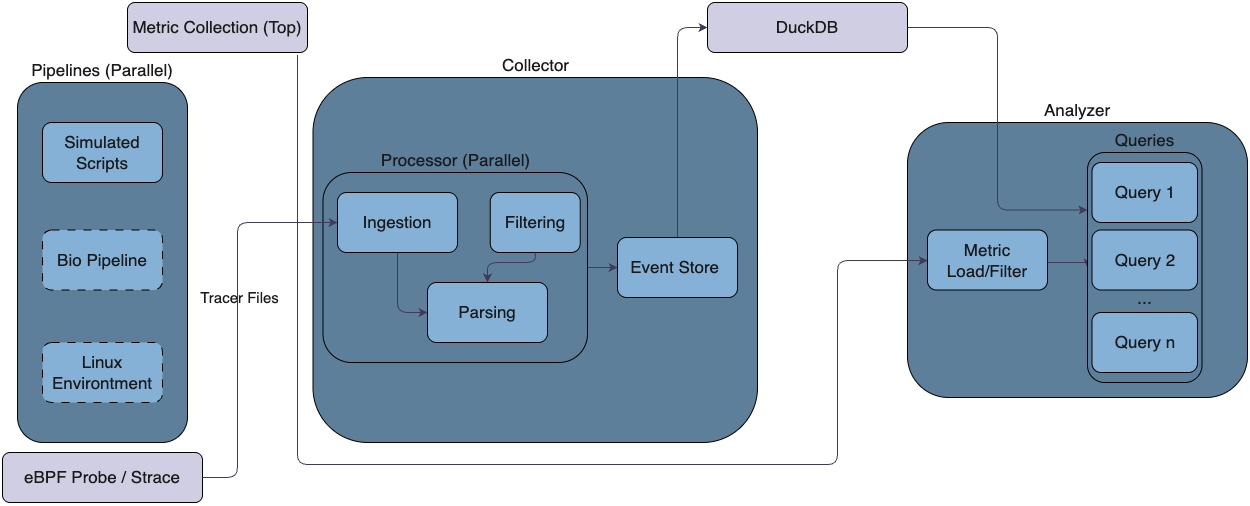
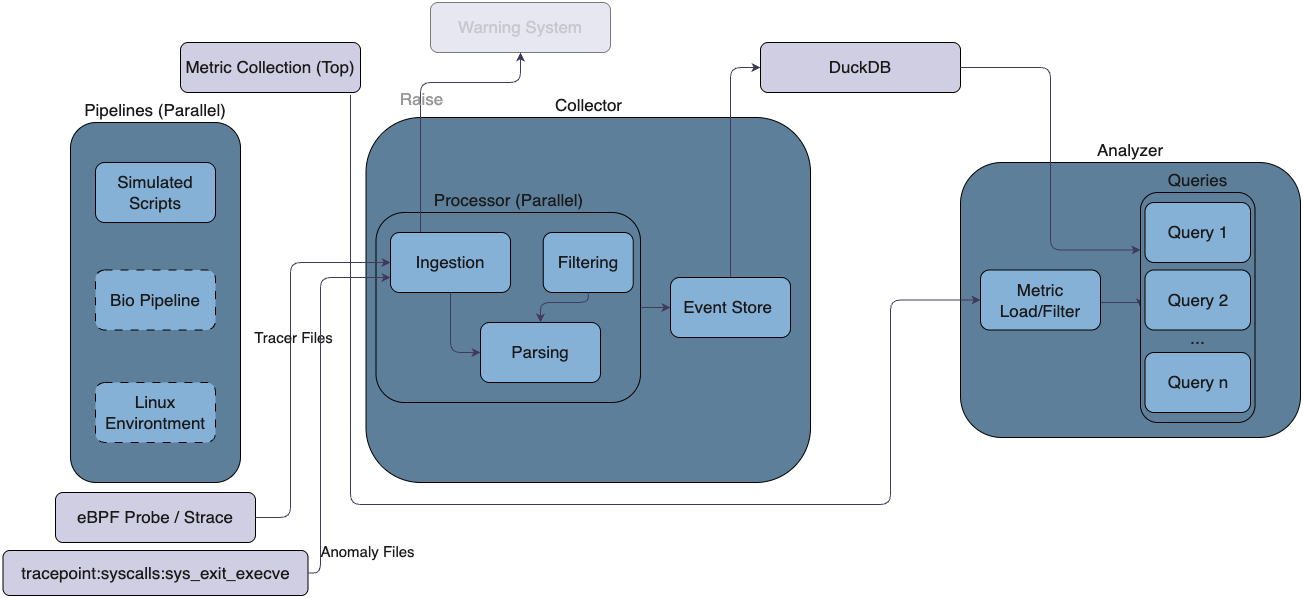
Update readme file to showcase recent eBPF changes

diff --git a/readme.md b/readme.md
@@ -99,6 +99,7 @@ Results are written to CSV for submission clarity.
 ## 5. Design Decisions
 
 ### Collector (`collector.py`)
+- **Anomaly monitoring:** A temporary not tested `sys_exit_execve`-based anomaly monitor was implemented to log failed `execve()` calls. While it effectively detects execution failures, it does not provide end timestamps for successful executions due to how `execve()` replaces the calling process. This behavior is documented in the `execve(2)` man page and confirmed through testing. As a result, we rely on `sched:sched_process_exit` to accurately determine when a binary finishes execution.
 - **Mode-based collection:** Supports both `strace` and `eBPF` modes via CLI flag, enabling future integration with tools like `perf`, `ptrace`, or custom eBPF probes.
 - **Process-level trace separation:** Uses `strace -ff` to generate one trace file per PID, supporting clean duration extraction and better event traceability.
 - **System-wide sampling:** Runs `top` globally at high frequency (every 0.1s) during pipeline execution, capturing per-process CPU and memory metrics.
@@ -171,16 +172,20 @@ pip install -r requirements.txt
 
 ### Challenges
 
-- **eBPF duration tracking limitations:** The current implementation only hooks into `sys_enter_execve`, which does not expose process exits. This prevents duration tracking for eBPF-based events.
+- **execve syscall exit limitation:** Initially, `tracepoint:syscalls:sys_exit_execve` was evaluated as a way to track the end of binary execution. However, as the Linux man page for `execve(2)` notes:
+
+  > *execve() does not return on success, and the text, initialized data, uninitialized data (bss), and stack of the calling process are overwritten according to the contents of the newly loaded program.*
+
+  This means that `sys_exit_execve` is only triggered for **failed** exec attempts. In practice, the anomaly log (`anomaly-log.txt`) remains empty for normal workloads. This led to adopting `sched:sched_process_exit` instead, which reliably triggers when a process exits and allows us to compute execution durations.
 - **Short-lived process visibility:** Some binaries execute and terminate in under 100ms. Even with 0.1s sampling, we may miss brief process activity.
 - **System-level noise:** On small instances like `t2.micro`, background OS activity may interfere with accurate metric collection, particularly when using `top` system-wide.
 
 ### Future Work
 
-- eBPF parallel pipeline
-- Extend eBPF collection to infer binary end times
+- <s>eBPF parallel pipeline</s>
+- <s>Extend eBPF collection to infer binary end times</s>
+- <s>Implement anomaly detection</s>, and warning raise mechanism
 - Add memory usage aggregation per binary
-- Implement anomaly detection, and warning raise mechanism
 - Complete filter_event support
 - Add bioinformatics pipeline
 - Export DuckDB queries to a web dashboard for real-time insight
